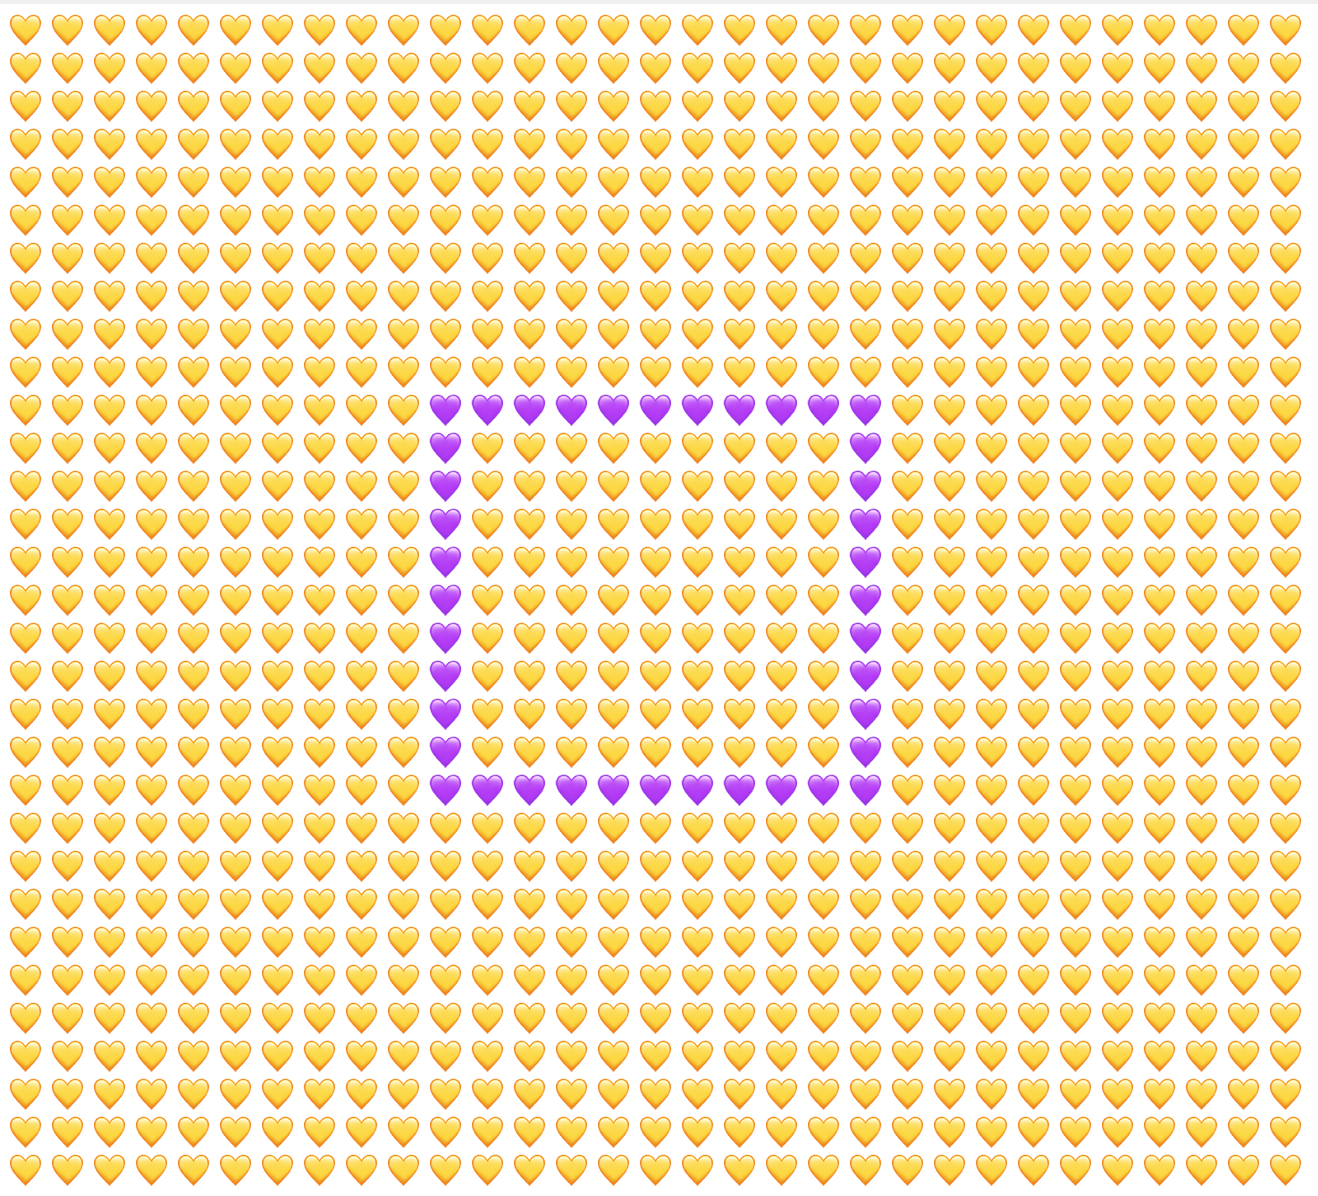
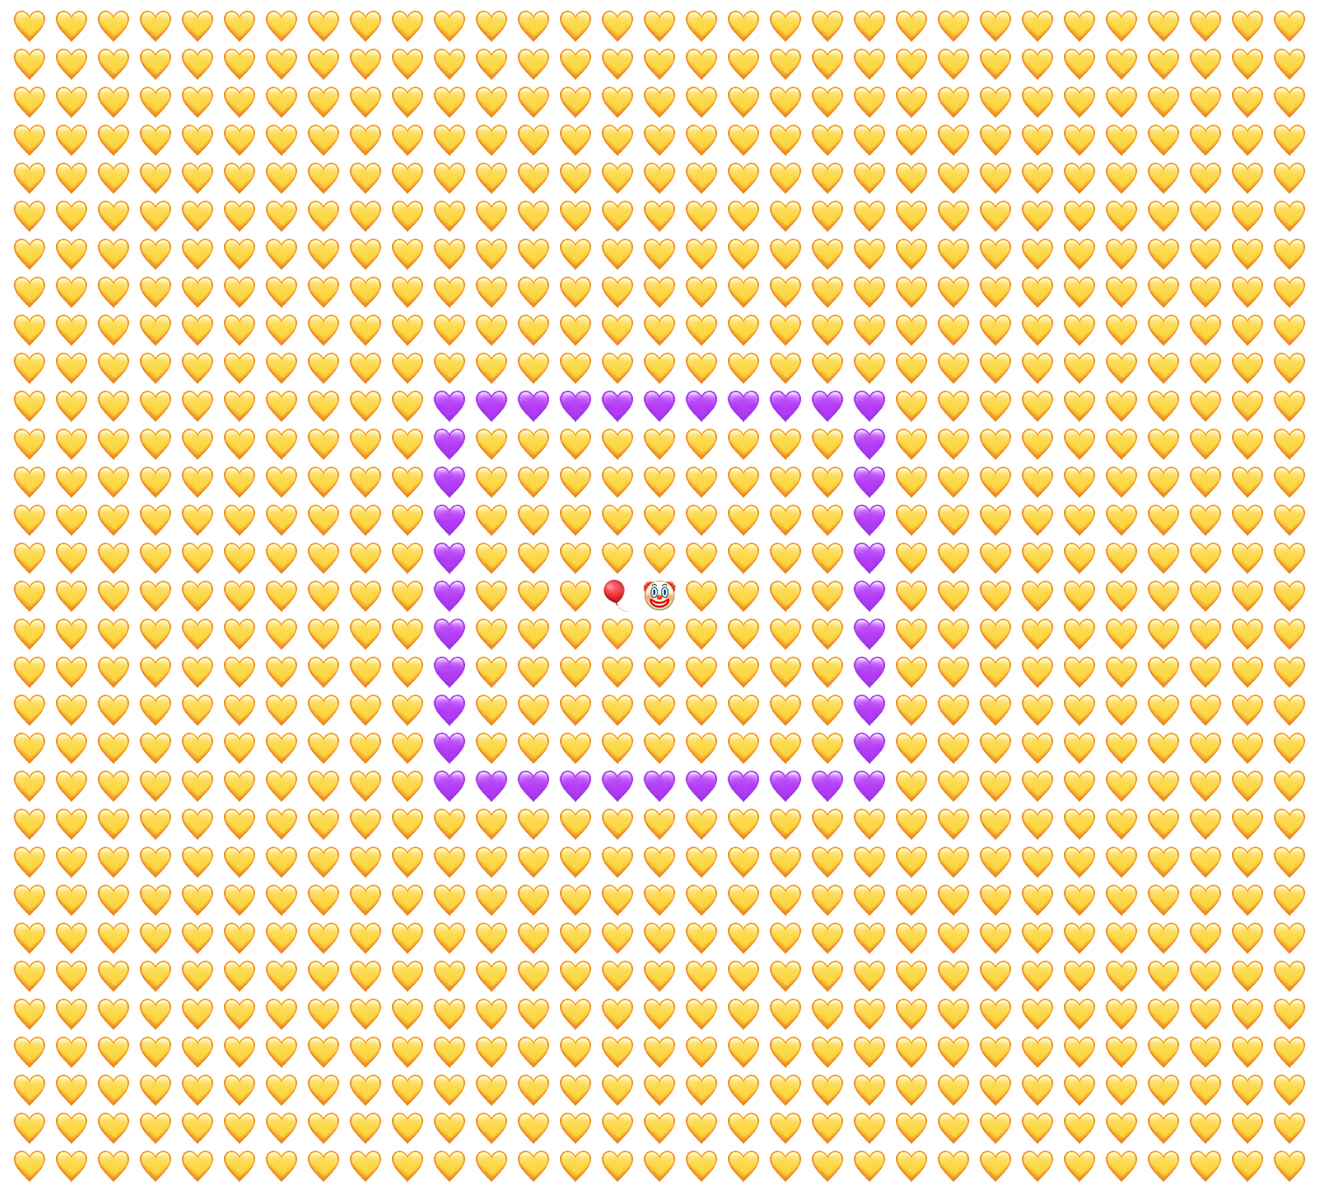
adjust rendering

diff --git a/text-canvas.js b/text-canvas.js
@@ -1,10 +1,10 @@
 /**
- * TextCanvas.js
+ * Text Canvas JS
  * 
  * A canvas for rendering whatever with characters.
  * 
  * @author manuelbarzi
- * @version 0.0.0
+ * @version 0.0.2
  */
 var TextCanvas = (function () {
     function create(width, height) {
@@ -19,18 +19,18 @@ var TextCanvas = (function () {
             clear(this, 0, 0, width, height, value);
         };
 
-        canvas.render = function () {
-            return render(this);
+        canvas.toString = function () {
+            return toString(this);
         };
 
         canvas.rect = function (x0, y0, x1, y1, value) {
             if (arguments.length < 5) value = '*';
-            
+
             rect(this, x0, y0, x1, y1, value);
         };
 
-        canvas.set = function (x, y, value) {
-            set(this, x, y, value);
+        canvas.dot = function (x, y, value) {
+            dot(this, x, y, value);
         };
 
         canvas.clear();
@@ -38,73 +38,83 @@ var TextCanvas = (function () {
         return canvas;
     }
 
-    function clear(canvas, fromX, fromY, toX, toY, value) {
+    function clear(canvas, x0, y0, x1, y1, value) {
         if (arguments.length < 6) value = ' ';
 
-        for (var j = fromY; j <= toY; j++)
-            for (var i = fromX; i <= toX; i++)
+        for (var j = y0; j <= y1; j++)
+            for (var i = x0; i <= x1; i++)
                 canvas[j][i] = value;
     }
 
-    function render(canvas) {
-        var render = '';
+    function toString(canvas) {
+        var string = '';
 
         for (var j = 0; j < canvas.length; j++)
-            render += canvas[j].join('') + '\n';
+            string += canvas[j].join('') + '\n';
 
-        return render;
+        return string;
     }
 
-    function set(canvas, x, y, value) {
+    function dot(canvas, x, y, value) {
         canvas[y][x] = value;
     }
 
-    function rect(canvas, fromX, fromY, toX, toY, value) {
+    function rect(canvas, x0, y0, x1, y1, value) {
         if (arguments.length < 6) value = '*';
 
-        var from, to;
+        var xd = x1 - x0,
+            yd = y1 - y0,
+            m = Math.abs(yd / xd);
 
-        if (fromX === toX) {
-            from = fromY;
-            to = toY;
-
-            if (fromY > toY) {
-                from = toY;
-                to = fromY;
-            }
-
-            for (var j = from; j <= to; j++)
-                canvas[j][fromX] = value;
-        } else if (fromY === toY) {
-            from = fromX;
-            to = toX;
-
-            if (fromX > toX) {
-                from = toX;
-                to = fromX;
-            }
-
-            for (var i = from; i <= to; i++)
-                canvas[fromY][i] = value;
+        if (isNaN(m))
+            canvas[y0][x0] = value;
+        else if (m === 0) {
+            if (xd > 0)
+                for (var i = x0; i <= x1; i++)
+                    canvas[y0][i] = value;
+            else
+                for (var i = x0; i >= x1; i--)
+                    canvas[y0][i] = value;
+        } else if (m === Infinity) {
+            if (yd > 0)
+                for (var j = y0; j <= y1; j++)
+                    canvas[j][x0] = value;
+            else
+                for (var j = y0; j >= y1; j--)
+                    canvas[j][x0] = value;
         } else {
-            var m = (toY - fromY) / (toX - fromX);
+            if (m <= 1) {
+                m = yd / xd;
 
-            var j;
+                var j;
 
-            from = fromX;
-            to = toX;
+                if (xd > 0)
+                    for (var i = x0; i <= x1; i++) {
+                        j = Math.round(m * (i - x0) + y0);
+                        canvas[j][i] = value;
+                    }
+                else
+                    for (var i = x0; i >= x1; i--) {
+                        j = Math.round(m * (i - x0) + y0);
+                        canvas[j][i] = value;
+                    }
+            } else {
+                m = xd / yd;
 
-            if (fromX > toX) {
-                from = toX;
-                to = fromX;
-            }
+                var i;
 
-            for (var i = from; i <= to; i++) {
-                j = Math.round(m * (i - fromX) + fromY);
-                canvas[j][i] = value;
+                if (yd > 0)
+                    for (var j = y0; j <= y1; j++) {
+                        i = Math.round(m * (j - y0) + x0);
+                        canvas[j][i] = value;
+                    }
+                else
+                    for (var j = y0; j >= y1; j--) {
+                        i = Math.round(m * (j - y0) + x0);
+                        canvas[j][i] = value;
+                    }
             }
         }
-
     }
 
     return create;

diff --git a/cube-3d.js b/cube-3d.js
@@ -62,12 +62,12 @@ var cube = (function () {
                 for (var i = 1; i < pts.length; i++) {
                     pti = pts[i - 1];
                     pt = pts[i];
-                    canvas.rect(offset.x + round(pti.x), offset.y + round(pti.y), offset.x + round(pt.x), offset.y + round(pt.y));
+                    canvas.rect(round(offset.x + pti.x), round(offset.y + pti.y), round(offset.x + pt.x), round(offset.y + pt.y));
                     pti = pt;
                 }
 
                 pti = pts[0];
-                canvas.rect(offset.x + round(pti.x), offset.y + round(pti.y), offset.x + round(pt.x), offset.y + round(pt.y));
+                canvas.rect(round(offset.x + pti.x), round(offset.y + pti.y), round(offset.x + pt.x), round(offset.y + pt.y));
             }
 
             var pts0 = cube[0],
@@ -75,10 +75,10 @@ var cube = (function () {
             for (var k = 0; k < pts0.length; k++) {
                 var pt0 = pts0[k];
                 var pt1 = pts1[k];
-                canvas.rect(offset.x + round(pt0.x), offset.y + round(pt0.y), offset.x + round(pt1.x), offset.y + round(pt1.y));
+                canvas.rect(round(offset.x + pt0.x), round(offset.y + pt0.y), round(offset.x + pt1.x), round(offset.y + pt1.y));
             }
 
-            return canvas.render();
+            return canvas.toString();
         }
     }
 })();

diff --git a/index.html b/index.html
@@ -3,9 +3,10 @@
 <head>
     <meta charset="UTF-8">
     <meta name="viewport" content="width=device-width, initial-scale=1.0">
-    <title>Document</title>
+    <title>Text Canvas JS</title>
 </head>
 <body>
+    <strong>Open the browser console to see the demo (Press either CTRL + SHIFT + I or F12 to open the Developer Tools).</strong>
     <script src="vendor/m.js"></script>
     <script src="text-canvas.js"></script>
     <script src="cube-3d.js"></script>

diff --git a/vendor/m.js b/vendor/m.js
@@ -1,10 +1,10 @@
 /**
- * M.js
+ * M JS
  * 
  * 3D operations in JavaScript.
  * 
  * @author manuelbarzi
- * @version 0.0.0
+ * @version 0.2.1
  */
 var M = (function () {
     function p(x, y, z) {

diff --git a/README.md b/README.md
@@ -1,10 +1,10 @@
-![alt TextCanvas.js](text-canvas.js.png)
+![alt Text Canvas .js](text-canvas.js.png)
 
-# **TextCanvas.js**
+# **Text Canvas JS**
 
-A canvas for rendering whatever with characters.
+A canvas for rendering whatever with characters in JavaScript.
 
-## Intall
+## Install
 
 In the browser just load the file `text-canvas.js` in a `script` tag at the bottom of its `body`.
 
@@ -12,6 +12,7 @@ In the browser just load the file `text-canvas.js` in a `script` tag at the bott
 <body>
     ...
     <script src="text-canvas.js">
+    <!-- your scripts using text-canvas.js here -->
 </body>
 ```
 
@@ -28,24 +29,35 @@ var TextCanvas = require('text-canvas.js');
 import TextCanvas from 'text-canvas.js';
 ```
 
-## Demo code
+## Use
+
+Demo code:
 
 ```js
 // create a canvas
 var canvas = TextCanvas(30, 30);
 
+// clear it with yellow hearts
 canvas.clear('💛');
 
-// paint a rectangle of 10 x 10 located at position (10, 10)
+// paint a rectangle of 10 x 10 located at position (10, 10) with purple hearts
 canvas.rect(10, 10, 20, 10, '💜');
 canvas.rect(20, 10, 20, 20, '💜');
 canvas.rect(10, 20, 20, 20, '💜');
 canvas.rect(10, 20, 10, 10, '💜');
 
+// paint a clown with a baloon
+canvas.dot(14, 15, '🎈');
+canvas.dot(15, 15, '🤡');
+
 // render in the console
-console.log(canvas.render());// create a canvas
+console.log(canvas.toString());
 ```
 
 ![alt rectangle-2d.js](rectangle-2d.png)
 
-**SEE** animated demo `cube-3d.js` by running `index.html` in the browser.
+**SEE*** animated demo `cube-3d.js` by running `index.html` in the browser.
+
+![alt cube-3d.js](cube-3d.gif)
+
+\* **NOTE** for 3D processing this demo is using [`m.js`](https://www.npmjs.com/package/m.js). 
